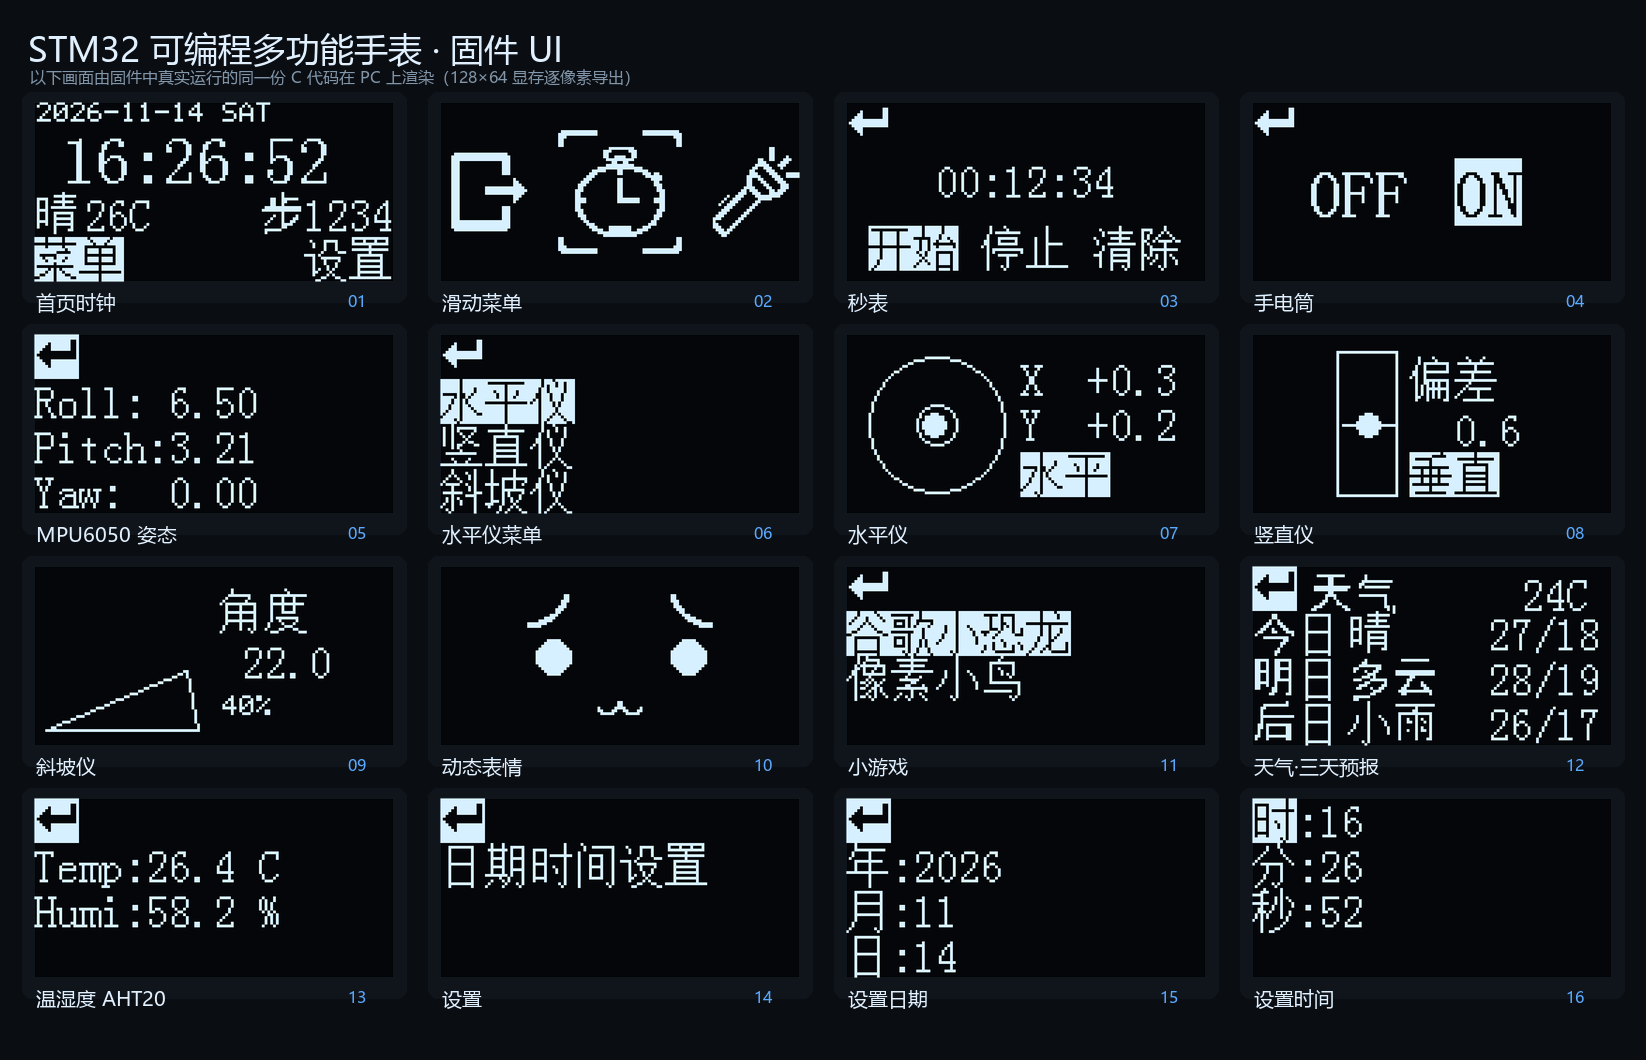
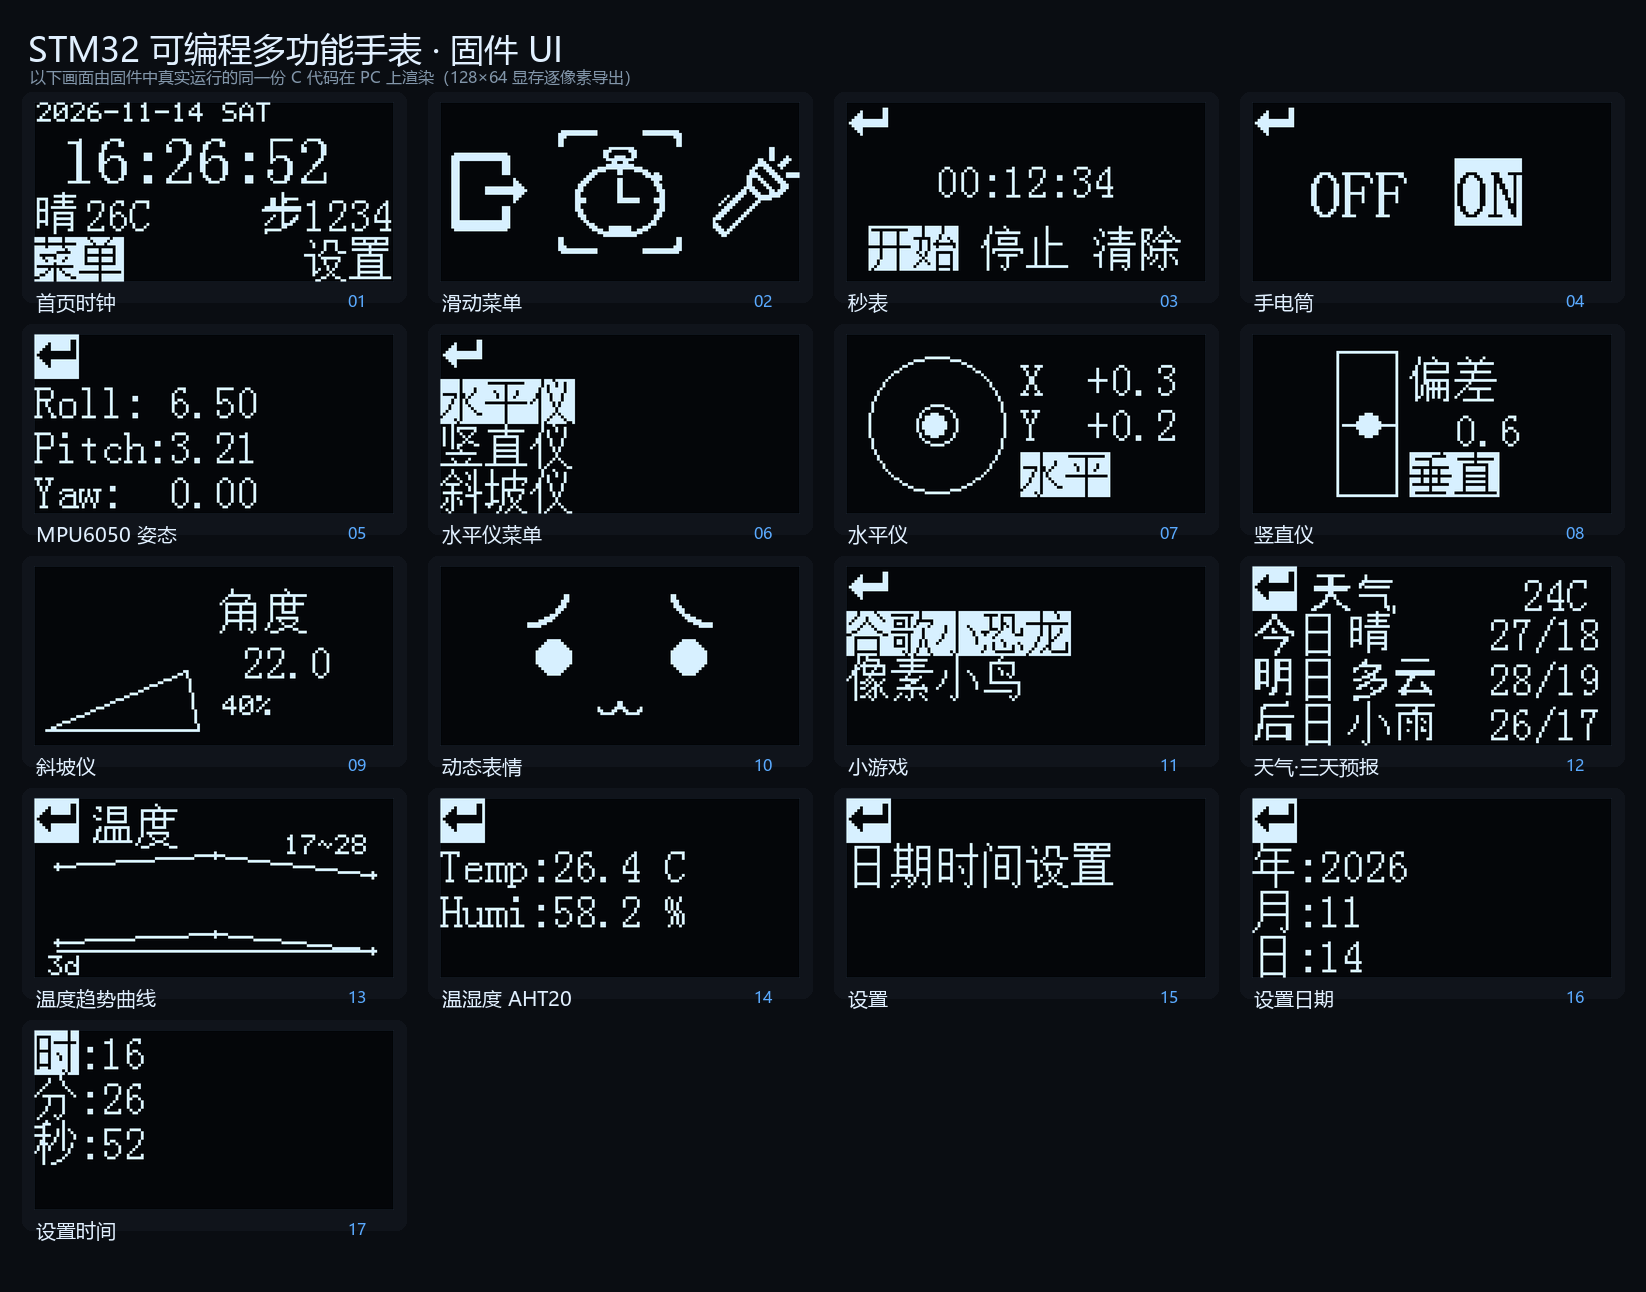
docs: fix demo/ and directory structure notes

diff --git a/Hardware/weather.c b/Hardware/weather.c
@@ -3,8 +3,13 @@
 #include "OLED_Data.h"
 #include "Key.h"
 #include "esp32c3.h"
+#include "delay.h"
+#include <string.h>
 
 extern uint8_t KeyNum;   /* 真正定义在 menu.c */
+
+/* 两个页面的画面快照：用于左右滑动动画（8页 x 128列 = 1KB/页） */
+static uint8_t s_snap[2][8][128];
 
 static char* DayLabel(int i)
 {
@@ -13,16 +18,16 @@ static char* DayLabel(int i)
     return d[i];
 }
 
-/* 画天气页：顶部 返回图标 + "天气" + 当前温度；下面三行三天预报 */
+/* ================ 页面0：天气列表（今日/明日/后日） ================ */
 void Show_Weather_UI(void)
 {
     int i;
 
-    OLED_ShowImage(0, 0, 16, 16, Return);          /* 返回图标 */
-    OLED_ShowString(20, 2, "天气", OLED_8X16);      /* 标题 */
+    OLED_ShowImage(0, 0, 16, 16, Return);
+    OLED_ShowString(20, 2, "天气", OLED_8X16);
     if (ESP32C3_DataValid())
     {
-        OLED_Printf(96, 2, OLED_8X16, "%dC", ESP32C3_Temperature());   /* 当前温度 */
+        OLED_Printf(96, 2, OLED_8X16, "%dC", ESP32C3_Temperature());
     }
 
     if (ESP32C3_ForecastValid())
@@ -30,14 +35,13 @@ void Show_Weather_UI(void)
         for (i = 0; i < 3; i++)
         {
             int y = 16 + i * 16;
-            OLED_ShowString(0, y, DayLabel(i), OLED_8X16);                                  /* 今日/明日/后日 */
-            OLED_ShowString(34, y, ESP32C3_ForecastText(i), OLED_8X16);                     /* 天气文字 */
-            OLED_Printf(84, y, OLED_8X16, "%d/%d", ESP32C3_ForecastHigh(i), ESP32C3_ForecastLow(i)); /* 高/低温 */
+            OLED_ShowString(0, y, DayLabel(i), OLED_8X16);
+            OLED_ShowString(34, y, ESP32C3_ForecastText(i), OLED_8X16);
+            OLED_Printf(84, y, OLED_8X16, "%d/%d", ESP32C3_ForecastHigh(i), ESP32C3_ForecastLow(i));
         }
     }
     else
     {
-        /* 还没收到预报：退回显示当前天气大字 */
         char *t = ESP32C3_WeatherText();
         if (ESP32C3_DataValid() && t && t[0] != '\0')
         {
@@ -56,29 +60,151 @@ void Show_Weather_UI(void)
         else
         {
             OLED_ShowString(0, 22, "No data", OLED_8X16);
-            /* 诊断：RX=收到的行数  OK=成功解析$OK次数  FC=成功解析$FC次数 */
             OLED_Printf(0, 44, OLED_6X8, "RX=%u OK=%u FC=%u",
                         ESP32C3_RxLines(), ESP32C3_OkCount(), ESP32C3_FcCount());
         }
     }
 }
 
-/* 天气页面按键循环：确认键(KEY3) 返回菜单 */
+/* ================ 页面1：温度趋势曲线（多天预报 高/低温） ================ */
+void Show_Trend_UI(void)
+{
+    int n = ESP32C3_TrendCount();
+    int i, tmin = 999, tmax = -999;
+    const int y0 = 20, y1 = 54, x0 = 8, x1 = 120;
+
+    OLED_ShowImage(0, 0, 16, 16, Return);
+    OLED_ShowString(20, 2, "温度", OLED_8X16);     /* 标题 */
+
+    if (n <= 0)
+    {
+        OLED_ShowString(24, 28, "No data", OLED_8X16);
+        return;
+    }
+
+    for (i = 0; i < n; i++)
+    {
+        int h = ESP32C3_TrendHigh(i);
+        int l = ESP32C3_TrendLow(i);
+        if (h > tmax) tmax = h;
+        if (l < tmin) tmin = l;
+    }
+    if (tmax <= tmin) tmax = tmin + 1;
+
+    OLED_DrawLine(x0, y1, x1, y1);                 /* 底部横轴 */
+
+    {
+        int prevX = -1, prevH = 0, prevL = 0;
+        for (i = 0; i < n; i++)
+        {
+            int x = (n == 1) ? 64 : x0 + i * (x1 - x0) / (n - 1);
+            int yh = y1 - (ESP32C3_TrendHigh(i) - tmin) * (y1 - y0) / (tmax - tmin);
+            int yl = y1 - (ESP32C3_TrendLow(i) - tmin) * (y1 - y0) / (tmax - tmin);
+            if (prevX >= 0)
+            {
+                OLED_DrawLine(prevX, prevH, x, yh);   /* 高温折线 */
+                OLED_DrawLine(prevX, prevL, x, yl);   /* 低温折线 */
+            }
+            OLED_DrawCircle(x, yh, 1, 1);             /* 高/低温点 */
+            OLED_DrawCircle(x, yl, 1, 1);
+            prevX = x; prevH = yh; prevL = yl;
+        }
+    }
+
+    /* 右上角显示温度范围，左下角显示天数 */
+    OLED_Printf(88, 13, OLED_6X8, "%d~%d", tmin, tmax);
+    OLED_Printf(4, 56, OLED_6X8, "%dd", n);
+}
+
+/* ================ 把某页渲染进快照（不显示） ================ */
+static void RenderSnapshots(void)
+{
+    OLED_Clear();
+    Show_Weather_UI();
+    OLED_ReverseArea(0, 0, 16, 16);
+    memcpy(s_snap[0], OLED_DisplayBuf, sizeof(s_snap[0]));
+
+    OLED_Clear();
+    Show_Trend_UI();
+    OLED_ReverseArea(0, 0, 16, 16);
+    memcpy(s_snap[1], OLED_DisplayBuf, sizeof(s_snap[1]));
+}
+
+static void ShowSnapshot(int p)
+{
+    memcpy(OLED_DisplayBuf, s_snap[p], sizeof(s_snap[0]));
+    OLED_Update();
+}
+
+/* 滑动动画：dir>0 新页从右侧进入（左移）；dir<0 从左侧进入（右移） */
+static void SlideTo(int from, int to, int dir)
+{
+    int o, x, pg;
+
+    for (o = 0; o <= 128; o += 8)
+    {
+        for (x = 0; x < 128; x++)
+        {
+            int sx = (dir > 0) ? (x + o) : (x - o);
+            for (pg = 0; pg < 8; pg++)
+            {
+                if (dir > 0)
+                    OLED_DisplayBuf[pg][x] = (sx < 128) ? s_snap[from][pg][sx] : s_snap[to][pg][sx - 128];
+                else
+                    OLED_DisplayBuf[pg][x] = (sx >= 0) ? s_snap[from][pg][sx] : s_snap[to][pg][128 + sx];
+            }
+        }
+        OLED_Update();
+        Delay_ms(8);
+    }
+}
+
+/* ================ 天气页主循环：KEY2 下一页 / KEY1 上一页 / KEY3 返回 ================ */
 int Weather(void)
 {
+    int page = 0;
+    uint16_t lastOk = 0xFFFF, lastFc = 0xFFFF;
+    uint8_t lastTr = 0xFF;
+
+    RenderSnapshots();
+    ShowSnapshot(0);
+    lastOk = ESP32C3_OkCount();
+    lastFc = ESP32C3_FcCount();
+    lastTr = ESP32C3_TrendCount();
+
     while (1)
     {
         KeyNum = Key_GetNum();
+
         if (KeyNum == 3)
         {
             OLED_Clear();
             OLED_Update();
             return 0;
         }
-        ESP32C3_Poll();          /* 该页面内仍持续接收 C3 数据 */
-        OLED_Clear();
-        Show_Weather_UI();
-        OLED_ReverseArea(0, 0, 16, 16);
-        OLED_Update();
+        else if (KeyNum == 2 && page == 0)      /* 下一页：左滑 */
+        {
+            SlideTo(0, 1, 1);
+            page = 1;
+        }
+        else if (KeyNum == 1 && page == 1)      /* 上一页：右滑 */
+        {
+            SlideTo(1, 0, -1);
+            page = 0;
+        }
+
+        ESP32C3_Poll();
+
+        /* 数据有更新就重渲染快照并刷新当前页 */
+        if (ESP32C3_OkCount() != lastOk || ESP32C3_FcCount() != lastFc || ESP32C3_TrendCount() != lastTr)
+        {
+            lastOk = ESP32C3_OkCount();
+            lastFc = ESP32C3_FcCount();
+            lastTr = ESP32C3_TrendCount();
+            RenderSnapshots();
+            ShowSnapshot(page);
+        }
+
+        Delay_ms(20);
     }
 }

diff --git a/Hardware/esp32c3.c b/Hardware/esp32c3.c
@@ -1,6 +1,7 @@
 #include "esp32c3.h"
 #include "Serial.h"
 #include <stdio.h>
+#include <stdlib.h>
 #include <string.h>
 
 static uint8_t s_valid = 0;
@@ -19,6 +20,14 @@ static char    s_fc_text[3][16] = {"", "", ""};
 static uint16_t s_rx_lines = 0;
 static uint16_t s_ok_cnt   = 0;
 static uint16_t s_fc_cnt   = 0;
+
+/* 多天预报（趋势曲线用），最多 15 天（心知付费上限） */
+#define TREND_MAX 15
+static uint8_t s_tr_count = 0;
+static int     s_tr_code[TREND_MAX];
+static int     s_tr_hi[TREND_MAX];
+static int     s_tr_lo[TREND_MAX];
+static char    s_tr_text[TREND_MAX][16];
 
 /* 心知天气 code（0~38）→ 中文，和开源天气时钟保持一致 */
 static const char* CodeToText(int code)
@@ -125,6 +134,33 @@ void ESP32C3_Poll(void)
         }
     }
 
+    /* 多天预报：$FD,<n>,c0,h0,l0,c1,h1,l1,...（温度趋势页用） */
+    {
+        char *r = strstr(USART2_RX_BUF, "$FD,");
+        if (r != NULL)
+        {
+            char *tok = strtok(r + 4, ",");
+            if (tok != NULL)
+            {
+                int n = atoi(tok), i = 0;
+                while (i < TREND_MAX)
+                {
+                    char *tc = strtok(NULL, ","); if (tc == NULL) break;
+                    char *th = strtok(NULL, ","); if (th == NULL) break;
+                    char *tl = strtok(NULL, ","); if (tl == NULL) break;
+                    s_tr_code[i] = atoi(tc);
+                    s_tr_hi[i]   = atoi(th);
+                    s_tr_lo[i]   = atoi(tl);
+                    strncpy(s_tr_text[i], CodeToText(s_tr_code[i]), sizeof(s_tr_text[i]) - 1);
+                    s_tr_text[i][sizeof(s_tr_text[i]) - 1] = '\0';
+                    i++;
+                }
+                s_tr_count = (uint8_t)i;    /* 实际解析到的天数 */
+                (void)n;
+            }
+        }
+    }
+
     USART2_RX_LEN = 0;
     memset(USART2_RX_BUF, 0, 128);
 }
@@ -143,3 +179,10 @@ int     ESP32C3_ForecastCode(int d) { if (d < 0 || d > 2) return -1; return s_fc
 uint16_t ESP32C3_RxLines(void) { return s_rx_lines; }
 uint16_t ESP32C3_OkCount(void) { return s_ok_cnt; }
 uint16_t ESP32C3_FcCount(void) { return s_fc_cnt; }
+
+/* 多天预报（趋势）取值：0=今天 */
+uint8_t ESP32C3_TrendCount(void) { return s_tr_count; }
+char*   ESP32C3_TrendText(int d) { if (d < 0 || d >= (int)s_tr_count) return ""; return s_tr_text[d]; }
+int     ESP32C3_TrendHigh(int d) { if (d < 0 || d >= (int)s_tr_count) return 0; return s_tr_hi[d]; }
+int     ESP32C3_TrendLow(int d)  { if (d < 0 || d >= (int)s_tr_count) return 0; return s_tr_lo[d]; }
+int     ESP32C3_TrendCode(int d) { if (d < 0 || d >= (int)s_tr_count) return -1; return s_tr_code[d]; }

diff --git a/tools/ui_render/stubs.c b/tools/ui_render/stubs.c
@@ -84,6 +84,15 @@ uint16_t ESP32C3_RxLines(void) { return 12; }
 uint16_t ESP32C3_OkCount(void) { return 6; }
 uint16_t ESP32C3_FcCount(void) { return 6; }
 
+/* 多天趋势（用于温度趋势页渲染） */
+static int g_tr_hi[5] = {27, 28, 26, 25, 24};
+static int g_tr_lo[5] = {18, 19, 17, 16, 15};
+uint8_t ESP32C3_TrendCount(void) { return 3; }
+char *ESP32C3_TrendText(int day) { return (day >= 0 && day < 3) ? ftext[day] : (char *)""; }
+int ESP32C3_TrendHigh(int day) { return (day >= 0 && day < 5) ? g_tr_hi[day] : 0; }
+int ESP32C3_TrendLow(int day) { return (day >= 0 && day < 5) ? g_tr_lo[day] : 0; }
+int ESP32C3_TrendCode(int day) { (void)day; return 0; }
+
 /* ---------------------------------------------------------------- Pedometer */
 uint32_t g_steps = 1234;
 void Pedometer_Init(void) {}

diff --git a/tools/ui_render/harness.c b/tools/ui_render/harness.c
@@ -24,6 +24,7 @@ void Show_Slope_UI(void);
 void Show_Emoji_UI(void);
 void Show_Game_UI(void);
 void Show_Weather_UI(void);
+void Show_Trend_UI(void);
 int  AHT20_Page(void);
 void MPU6050_Calculation(void);
 
@@ -101,6 +102,10 @@ int main(void)
     reset_buf(); g_wvalid = 1; g_temp = 24; g_fcvalid = 1; Show_Weather_UI();
     OLED_ReverseArea(0, 0, 16, 16);
     dump_framebuffer("12_weather");
+
+    reset_buf(); g_wvalid = 1; g_temp = 24; g_fcvalid = 1; Show_Trend_UI();
+    OLED_ReverseArea(0, 0, 16, 16);
+    dump_framebuffer("12b_weather_trend");
 
     reset_buf(); g_aht_t = 26.4f; g_aht_h = 58.2f; g_aht_ret = 0;
     g_capture = 1; g_captured = 0; g_capture_name = "13_temp_humi"; g_force_exit = 0;

diff --git a/tools/ui_render/render_sheet.py b/tools/ui_render/render_sheet.py
@@ -12,6 +12,7 @@ items = [
     ("07_level", "水平仪"), ("08_vertical", "竖直仪"),
     ("09_slope", "斜坡仪"), ("10_emoji", "动态表情"),
     ("11_game_menu", "小游戏"), ("12_weather", "天气·三天预报"),
+    ("12b_weather_trend", "温度趋势曲线"),
     ("13_temp_humi", "温湿度 AHT20"), ("14_setting_menu", "设置"),
     ("15_set_date", "设置日期"), ("16_set_time", "设置时间"),
 ]
@@ -22,7 +23,7 @@ try:
 except Exception:
     f_title = f_cap = f_sub = ImageFont.load_default()
 
-cols, rows = 4, 4
+cols, rows = 4, 5
 cell_w, cell_h, pad = 384, 210, 22
 img_w, img_h = 360, 180
 top = 92

diff --git a/Hardware/esp32c3.h b/Hardware/esp32c3.h
@@ -27,4 +27,11 @@ uint16_t ESP32C3_RxLines(void);
 uint16_t ESP32C3_OkCount(void);
 uint16_t ESP32C3_FcCount(void);
 
+/* 多天预报（趋势曲线），day: 0=今天 */
+uint8_t ESP32C3_TrendCount(void);
+char*   ESP32C3_TrendText(int day);
+int     ESP32C3_TrendHigh(int day);
+int     ESP32C3_TrendLow(int day);
+int     ESP32C3_TrendCode(int day);
+
 #endif

diff --git a/README.md b/README.md
@@ -22,7 +22,7 @@
 于是手表首页有了**真实时间 + 当前天气 + 步数**，还多了一个能看到**今日 / 明日 / 后日 三天预报**的天气页。STM32 侧依然跑在**裸机 + 标准外设库（SPL）**上，C3 侧是 Arduino 固件，两边通过一条 UART 通信，分工清清楚楚。
 
 > 📌 仓库历史里的 **v1 工程**仍保留在 git 提交记录中；当前 `main` 分支为 **v2**。
-> 🎬 演示素材会放在 [`demo/`](demo/) 目录，后续补充。
+> 🎬 UI 效果见下方 [实机演示](#demo)（固件同源代码渲染）；真实拍摄的视频 / GIF 可继续放进 [`demo/`](demo/)。
 
 <a id="features"></a>
 ## ✨ 功能一览
@@ -154,7 +154,8 @@
 ├─ .eide/               EIDE 工程配置（推荐构建方式）
 ├─ esp32c3_firmware/    ESP32-C3 Arduino 固件（ESP32C3_WeatherClock.ino）
 ├─ docs/                接线图 + 从 0 复刻教程
-└─ demo/                实机演示素材（视频 / GIF / 截图）—— 待补充
+├─ tools/ui_render/     在 PC 上编译固件 UI 代码并导出界面 PNG 的脚本
+└─ demo/                实机演示素材（demo/ui/ 为固件渲染的界面图，可再放实拍视频）
 ```
 
 <a id="quickstart"></a>

diff --git a/demo/README.md b/demo/README.md
@@ -1,5 +1,7 @@
 # 📽 实机演示素材
 
+> 🖼 `ui/` 子目录里是用**固件同一份 C 代码**在 PC 上渲染出的全部界面图（见 [`ui/README.md`](ui/README.md)）。
+
 把演示用的 **视频 / GIF / 截图** 放到这个文件夹，主 README 的「实机演示」一节会引用它们。
 
 建议命名（便于以后替换）：
